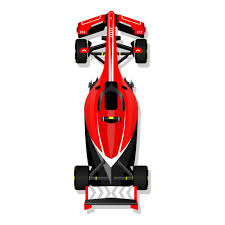
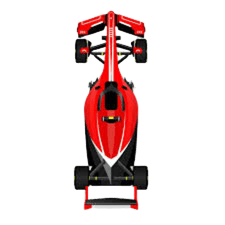
Aggiustato movimento strada e posizione macchina

diff --git a/src/main/java/pizzolo/com/progettone/controller/HelloController.java b/src/main/java/pizzolo/com/progettone/controller/HelloController.java
@@ -39,30 +39,52 @@ public class HelloController {
         schermo.setFocusTraversable(true);
         schermo.requestFocus();
         schermo.setOnKeyPressed(this::muoviMacchina);
+
+        // Immagine strada
+        Image strada = new Image(getClass().getResource("/pizzolo/com/progettone/images/partenza.png").toExternalForm());
+        mappa.setFitHeight(800);
+        mappa.setFitWidth(800);
+        mappa.setPreserveRatio(true);
+        mappa.setImage(strada);
+
+        //continuo macchina
+
+
+        // Immagine macchina
         Image img = new Image(getClass().getResource("/pizzolo/com/progettone/images/macchina.png").toExternalForm());
         macchina.setImage(img);
-        macchina.setFitWidth(200);
-        macchina.setFitHeight(200);
+        macchina.setFitWidth(100);
+        macchina.setFitHeight(100);
+
+        // Posiziona la macchina sopra la strada
+        macchina.setLayoutX(mappa.getLayoutX() + mappa.getFitWidth() / 2 - macchina.getFitWidth() / 2);
+        macchina.setLayoutY(mappa.getLayoutY() + mappa.getFitHeight() / 2 - macchina.getFitHeight() / 2);
     }
+
 
     /**
      * muuove l'immagine della macchina di tot step con i tasti
+     *
      * @param event
      */
     public void muoviMacchina(KeyEvent event) {
         double step = 10;
+        TranslateTransition tr = new TranslateTransition(Duration.millis(0.1), mappa);
         if (event.getCode() == KeyCode.W) {
-            macchina.setLayoutY(macchina.getLayoutY() - step);
+            tr.setByY(step);
         }
-            if (event.getCode() == KeyCode.S) {
-                macchina.setLayoutY(macchina.getLayoutY() + step);
-            }
-            if (event.getCode() == KeyCode.A) {
-                macchina.setLayoutX(macchina.getLayoutX() - step);
-            }
-            if (event.getCode() == KeyCode.D) {
-                macchina.setLayoutX(macchina.getLayoutX() + step);
-            }
+        if (event.getCode() == KeyCode.S) {
+            tr.setByY(-step);
+        }
+        if (event.getCode() == KeyCode.A) {
+            //TODO calcolare le curve
+            tr.setByX(-step);
+        }
+        if (event.getCode() == KeyCode.D) {
+            //TODO calcolare le curve
+            tr.setByX(step);
+        }
+        tr.play();
 
 
     }

diff --git a/src/main/java/pizzolo/com/progettone/HelloApplication.java b/src/main/java/pizzolo/com/progettone/HelloApplication.java
@@ -12,7 +12,7 @@ public class HelloApplication extends Application {
     public void start(Stage stage) throws IOException {
         FXMLLoader fxmlLoader = new FXMLLoader(HelloApplication.class.getResource("view/main-view.fxml"));
         Scene scene = new Scene(fxmlLoader.load(), 1000, 820);
-        stage.setTitle("Hello!");
+        stage.setTitle("Corri Corri!");
         stage.setScene(scene);
         stage.show();
     }
